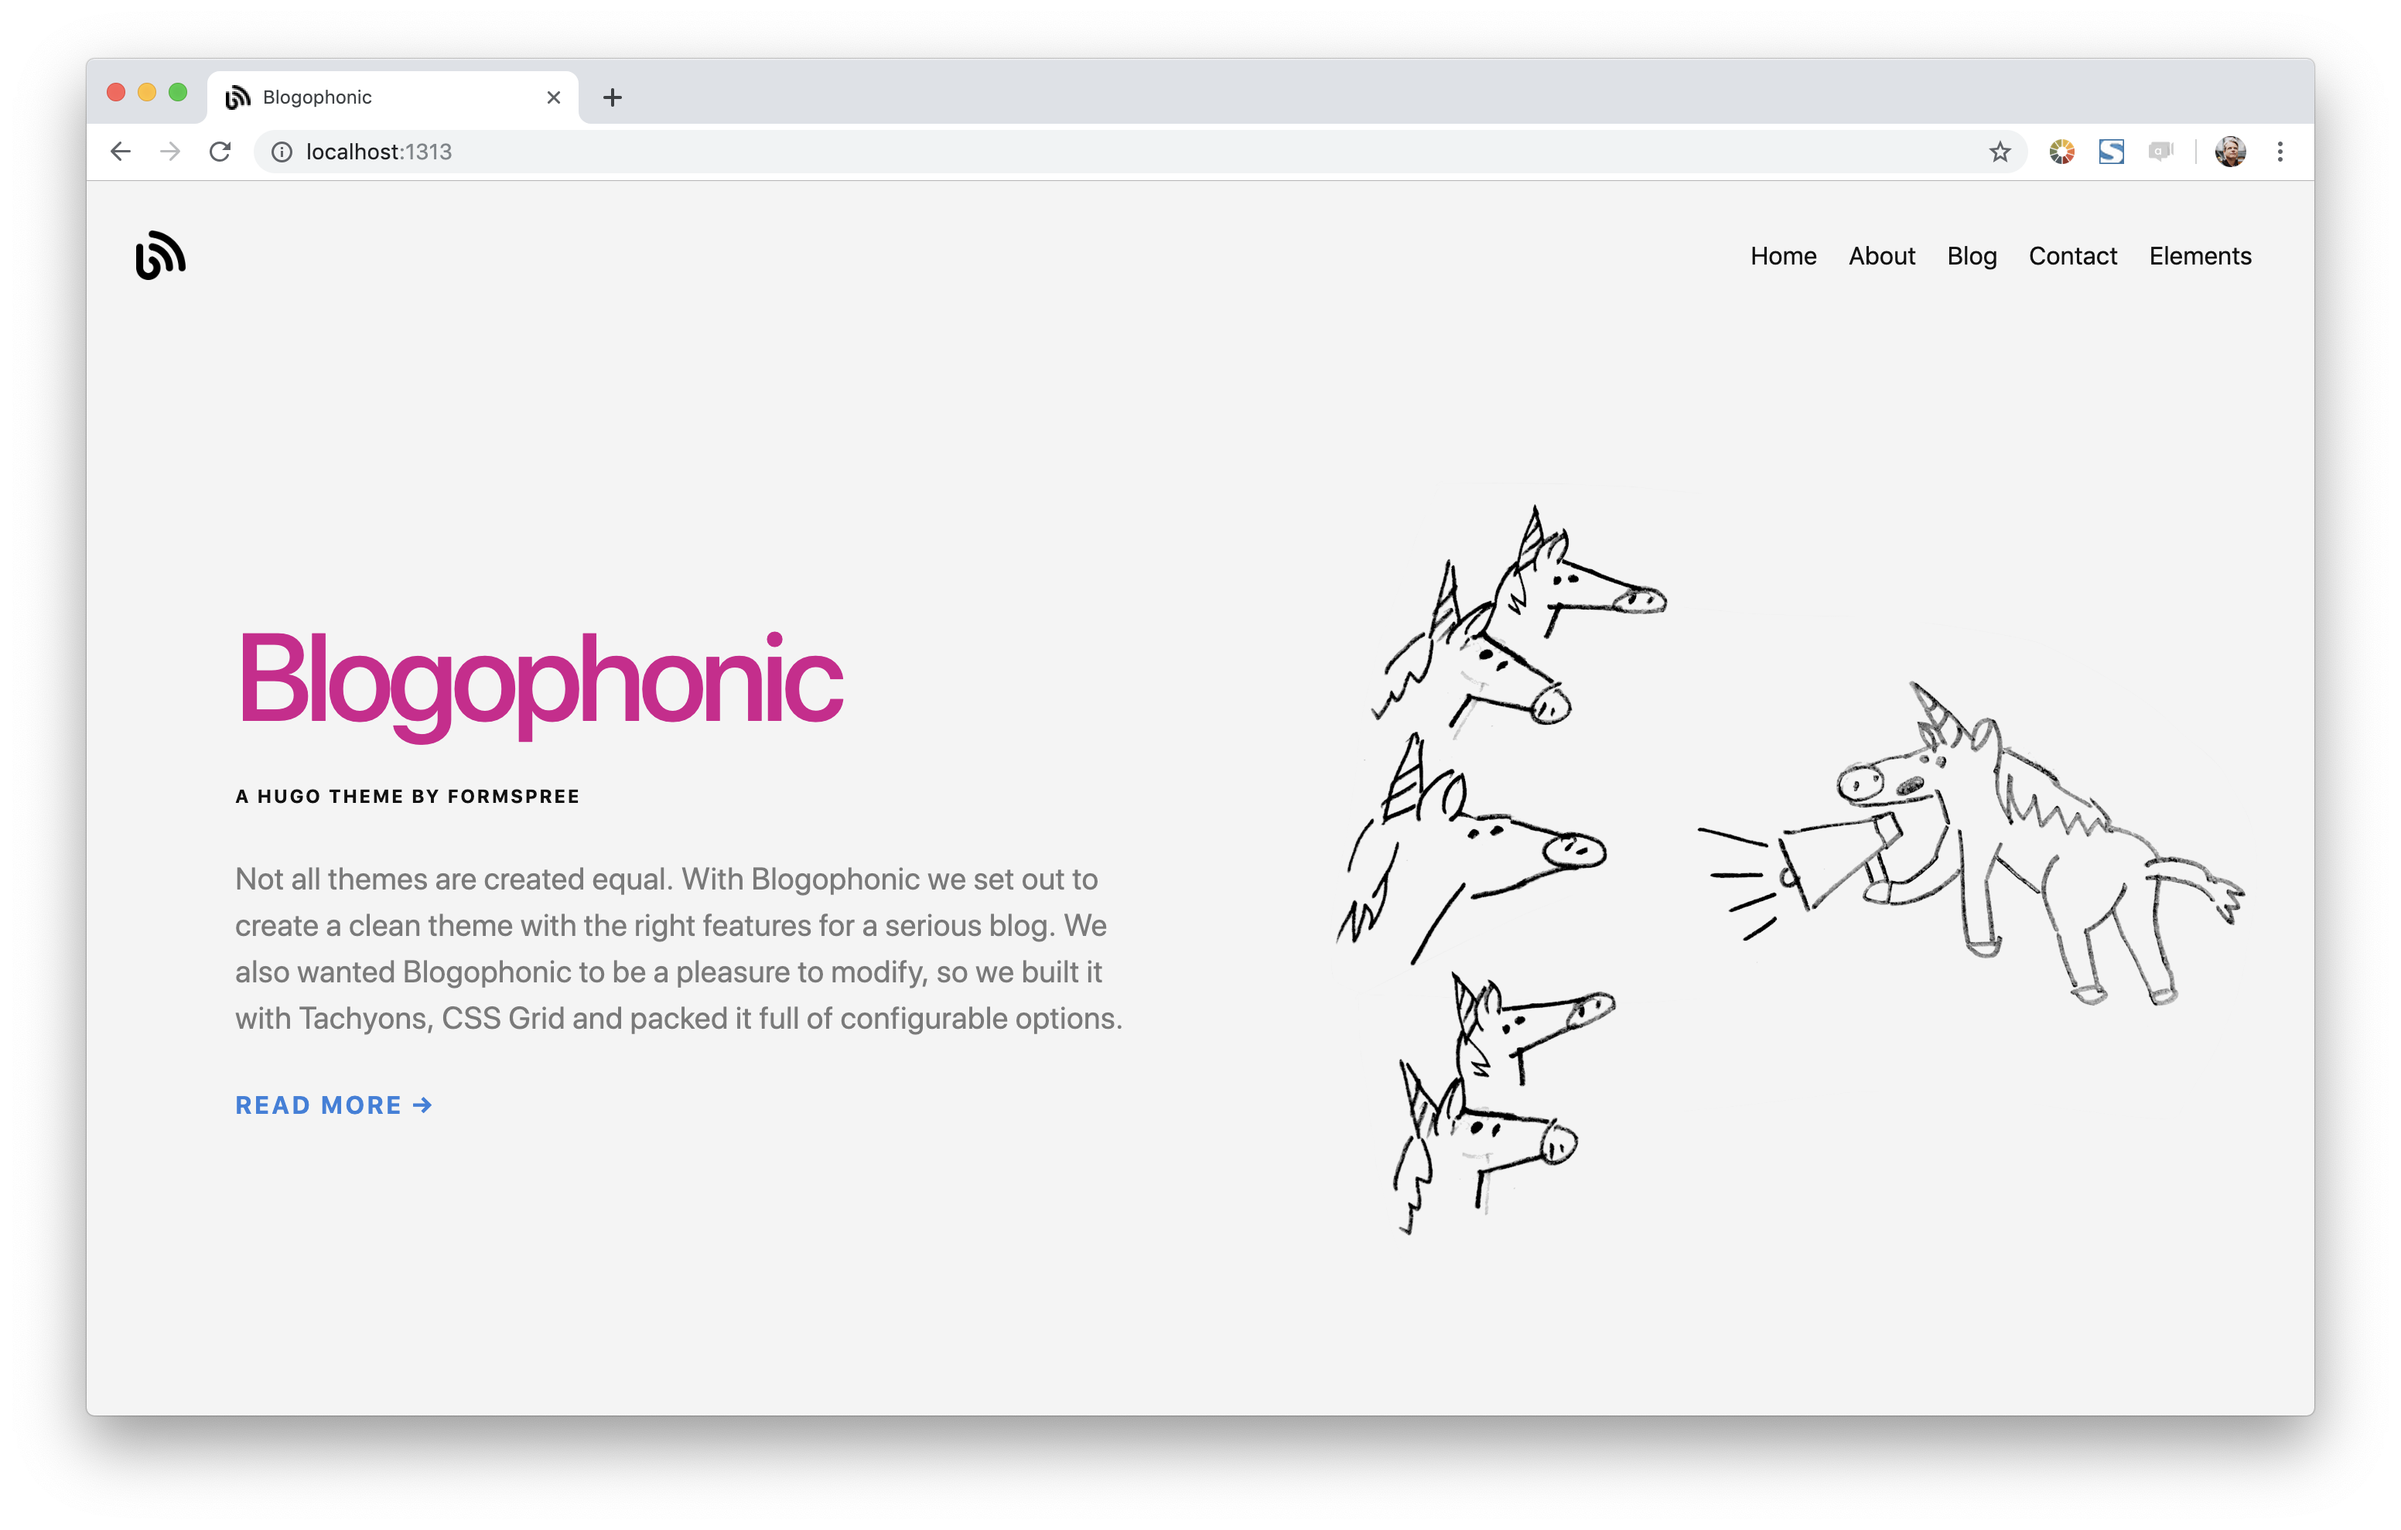
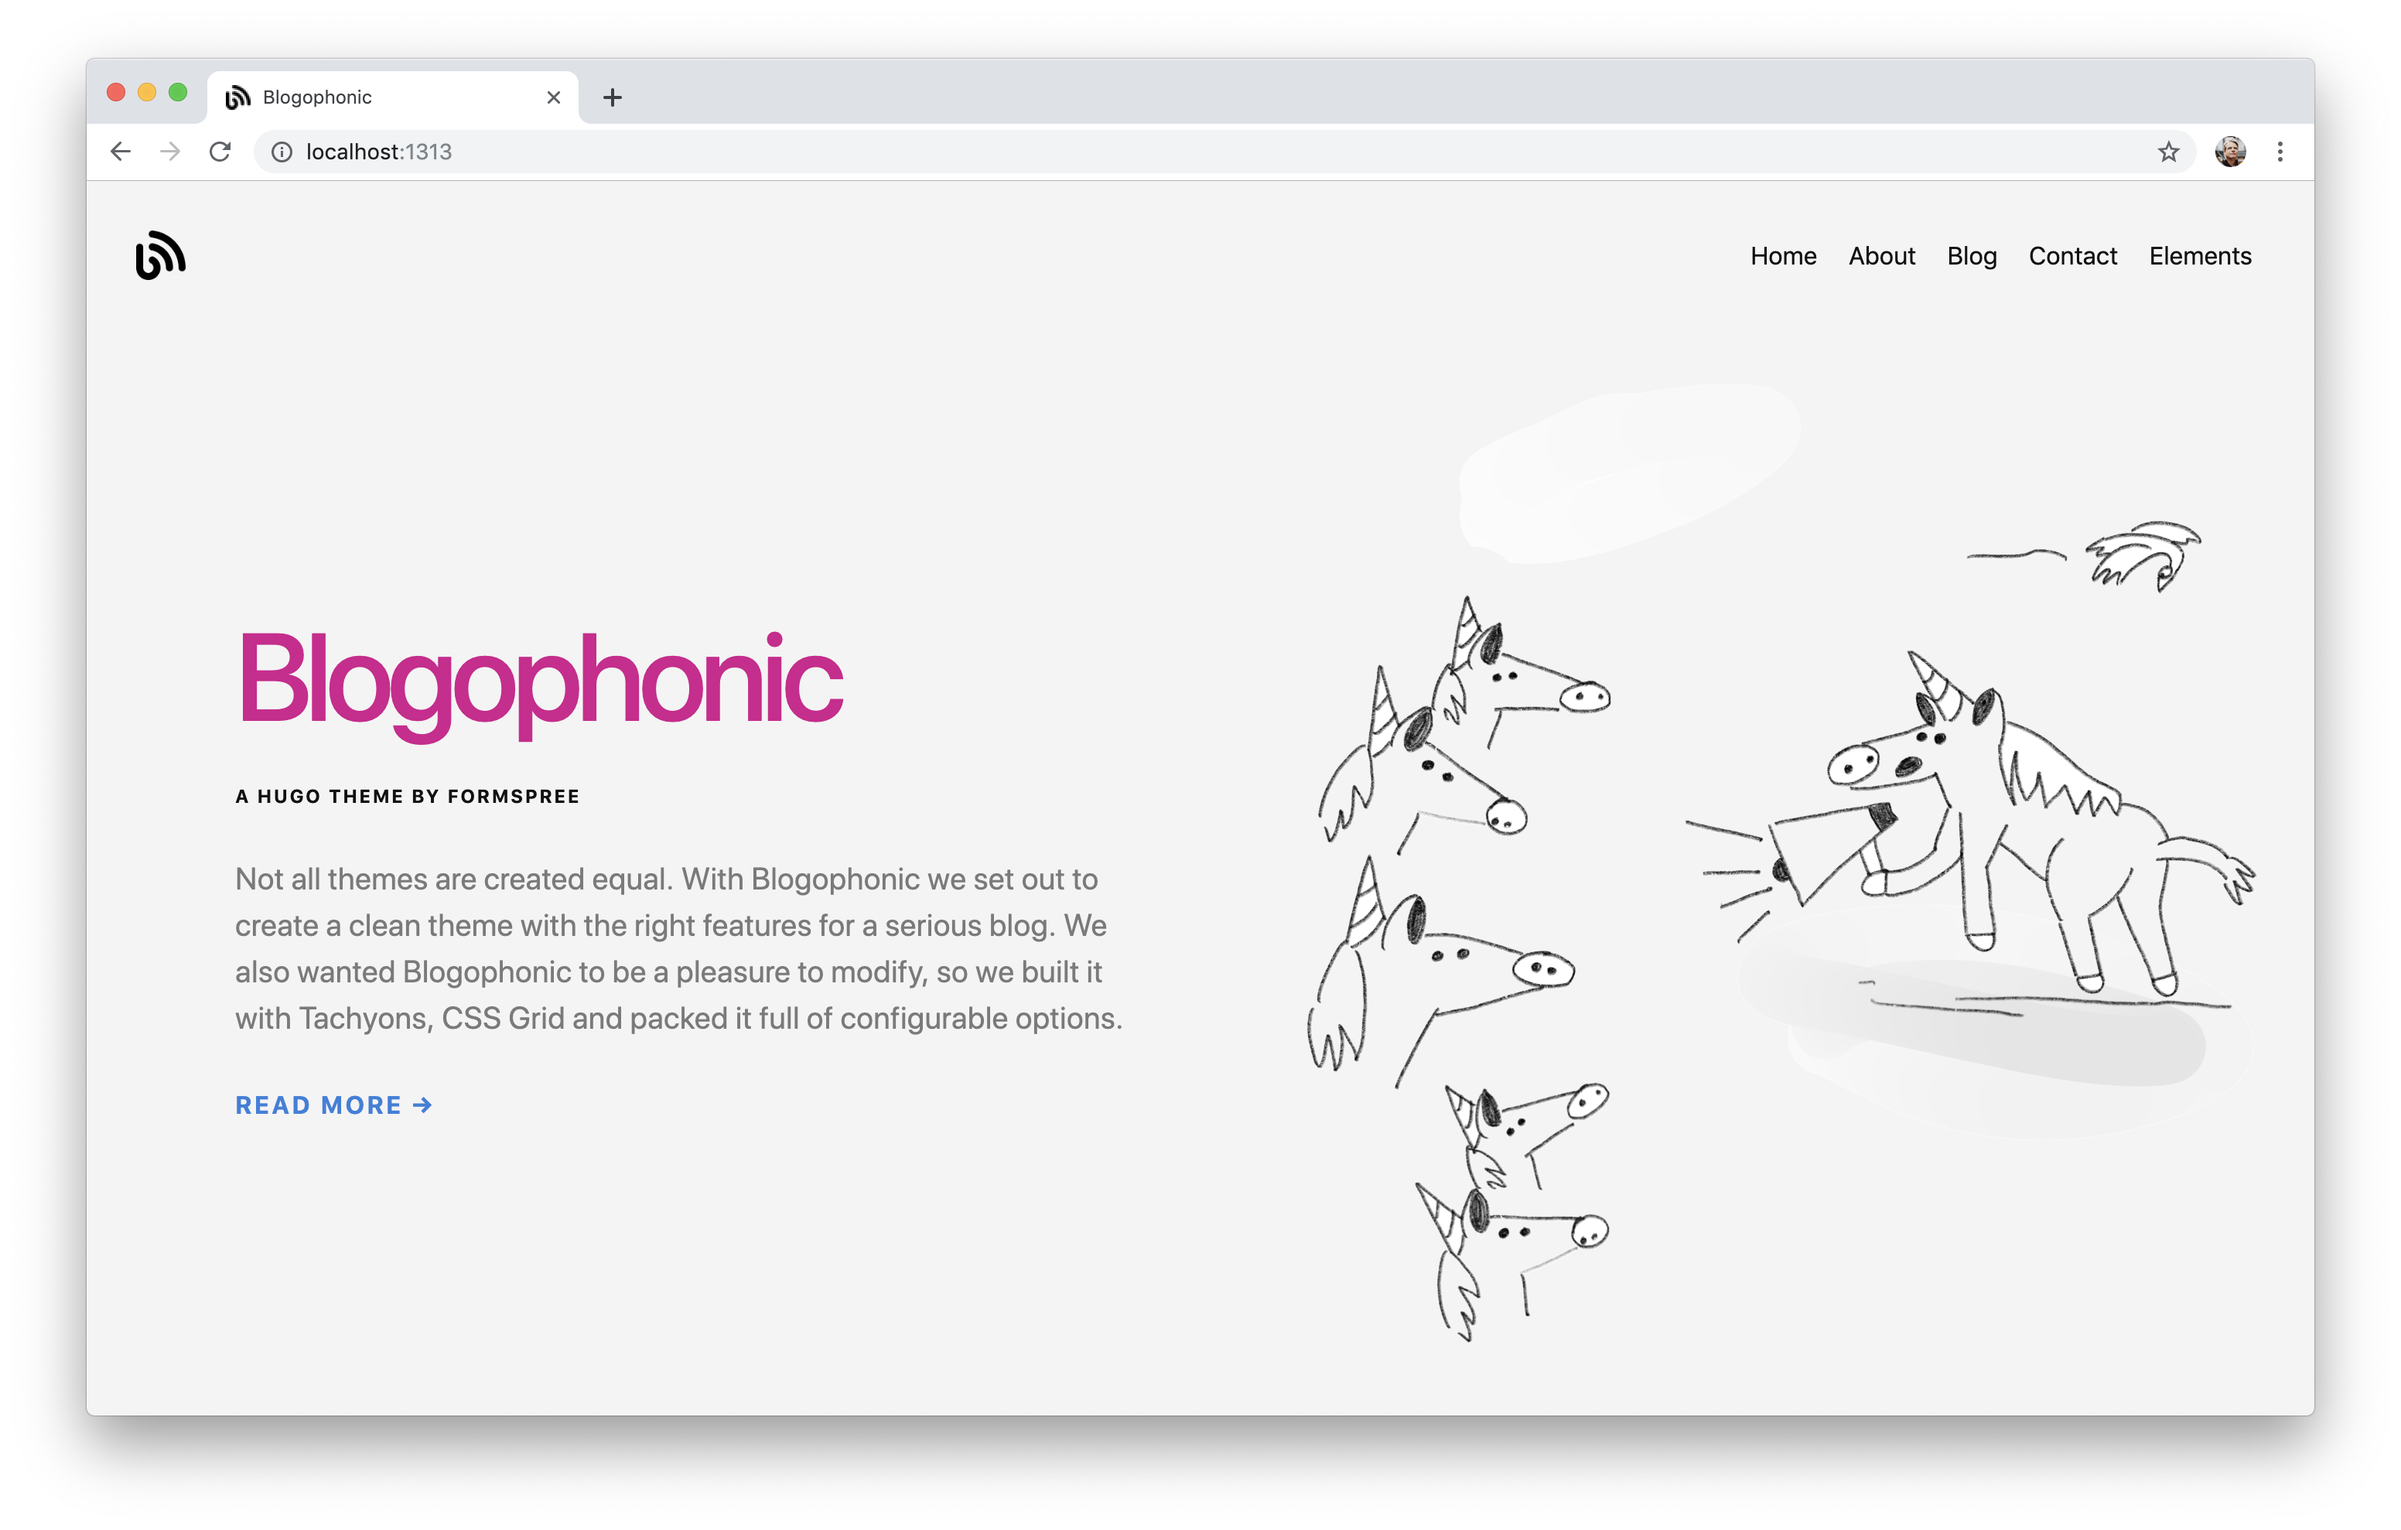
Clean up images; release the unicorns

diff --git a/content/_index.md b/content/_index.md
@@ -7,7 +7,7 @@ Blogophonic to be a pleasure to modify, so we built it with Tachyons, CSS Grid
 and packed it full of configurable options."
 date: 2019-02-18T12:27:33-06:00
 images:
-  - img/unicorn-megaphone-by-cole-krumboltz.png
+  - img/unicorn-megaphone.png
 show_action_link: true
 action_link: /about
 action_label: "Read More &rarr;"
